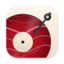
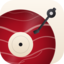
0.2.23

diff --git a/icon/main.go b/icon/main.go
@@ -1,9 +1,8 @@
 // Command icon draws the app icons: the layers of AppIcon.icon, the Icon
 // Composer document that macOS 26 and later render in Liquid Glass, and
-// resources/icon.png, the same icon as macOS draws it, on the grid of older
-// macOS icons, for older macOS and Windows; and from AppIcon-dev.icon, the
-// same picture inverted, resources/icon-dev.png, the icon of mygo dev
-// builds.
+// resources/icon.png, the same icon as macOS draws it, full-bleed for older
+// macOS and Windows; and from AppIcon-dev.icon, the same picture inverted,
+// resources/icon-dev.png, the icon of mygo dev builds.
 //
 // Run it from the repository root on a Mac with Xcode 26 or later:
 //
@@ -16,9 +15,6 @@ package main
 import (
 	"fmt"
 	"image"
-	"image/color"
-	"image/draw"
-	"image/png"
 	"log"
 	"math"
 	"os"
@@ -213,20 +209,19 @@ func labelSVG(p palette) string {
 		p.labelTop, p.labelBottom, p.labelRing, p.spindle))
 }
 
-// render has ictool draw document as macOS does, and lays it on the
-// 1024-pixel grid of macOS icons at output: an 824-pixel body, centered,
-// over a soft shadow.
+// render has ictool draw document at the full 1024-pixel size: the icon
+// fills its canvas, and macOS applies the rounded corners. An inset icon
+// on the old macOS grid left a transparent ring when Windows showed this
+// PNG as the app's icon.
 func render(document, output string) error {
-	const canvas, body = 1024, 824
 	dir, err := os.MkdirTemp("", "icon")
 	if err != nil {
 		return err
 	}
 	defer os.RemoveAll(dir)
 	drawn := filepath.Join(dir, "icon.png")
-	size := fmt.Sprint(body)
 	if out, err := exec.Command(ictool, document, "--export-image", "--output-file", drawn,
-		"--platform", "macOS", "--rendition", "Default", "--width", size, "--height", size, "--scale", "1").CombinedOutput(); err != nil {
+		"--platform", "macOS", "--rendition", "Default", "--width", "1024", "--height", "1024", "--scale", "1").CombinedOutput(); err != nil {
 		return fmt.Errorf("ictool (it comes with Xcode 26 or later): %v\n%s", err, out)
 	}
 	// ictool draws in Display P3, and the PNG this writes carries no
@@ -234,55 +229,9 @@ func render(document, output string) error {
 	if out, err := exec.Command("sips", "--matchTo", "/System/Library/ColorSync/Profiles/sRGB Profile.icc", drawn).CombinedOutput(); err != nil {
 		return fmt.Errorf("sips: %v\n%s", err, out)
 	}
-	f, err := os.Open(drawn)
+	b, err := os.ReadFile(drawn)
 	if err != nil {
 		return err
 	}
-	defer f.Close()
-	src, err := png.Decode(f)
-	if err != nil {
-		return err
-	}
-
-	at := image.Pt((canvas-body)/2, (canvas-body)/2)
-	dst := image.NewNRGBA(image.Rect(0, 0, canvas, canvas))
-	shadow := image.NewAlpha(dst.Bounds())
-	draw.Draw(shadow, src.Bounds().Add(at).Add(image.Pt(0, 12)), src, src.Bounds().Min, draw.Src)
-	blur(shadow, 10)
-	draw.DrawMask(dst, dst.Bounds(), image.NewUniform(color.NRGBA{A: 72}), image.Point{}, shadow, image.Point{}, draw.Over)
-	draw.Draw(dst, src.Bounds().Add(at), src, src.Bounds().Min, draw.Over)
-
-	out, err := os.Create(output)
-	if err != nil {
-		return err
-	}
-	if err := png.Encode(out, dst); err != nil {
-		out.Close()
-		return err
-	}
-	return out.Close()
-}
-
-// blur approximates a Gaussian blur of the given radius with three box
-// blurs in each direction.
-func blur(m *image.Alpha, radius int) {
-	w, h := m.Rect.Dx(), m.Rect.Dy()
-	buf := make([]uint8, len(m.Pix))
-	pass := func(src, dst []uint8, count, length, stride, step int) {
-		for line := range count {
-			base := line * stride
-			sum := 0
-			for i := -radius; i <= radius; i++ {
-				sum += int(src[base+min(max(i, 0), length-1)*step])
-			}
-			for i := range length {
-				dst[base+i*step] = uint8(sum / (2*radius + 1))
-				sum += int(src[base+min(i+radius+1, length-1)*step]) - int(src[base+max(i-radius, 0)*step])
-			}
-		}
-	}
-	for range 3 {
-		pass(m.Pix, buf, h, w, m.Stride, 1)
-		pass(buf, m.Pix, w, h, 1, m.Stride)
-	}
+	return os.WriteFile(output, b, 0o644)
 }

diff --git a/CHANGELOG.md b/CHANGELOG.md
@@ -1,5 +1,13 @@
 # 更新日志
 
+## 0.2.23
+
+- 修复图标偏小、四周有一圈留白的问题：
+  - 应用图标改为满幅铺满整个图标区域，去掉 macOS 旧式网格留下的透明边距，Windows 与 Linux 上不再显得比别的图标小
+  - 托盘图标同步更新为满幅
+  - 图标生成器改为按完整尺寸导出，在有 Xcode 的 Mac 上重新生成时不会再退回带留白版本
+- 注意事项：升级后如果任务栏或开始菜单仍显示旧图标，是 Windows 图标缓存未刷新，重启资源管理器或重启电脑即可；macOS 显示不受影响
+
 ## 0.2.22
 
 - 应用更名为「肥牛音乐」（Wagyu Music）：
